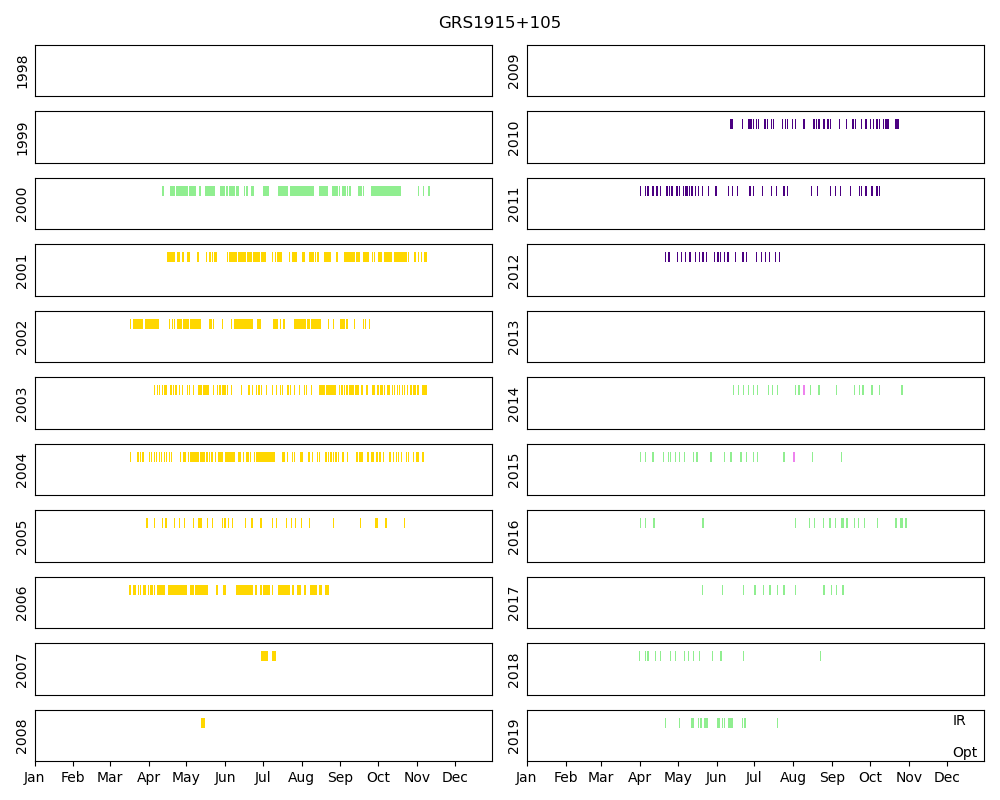
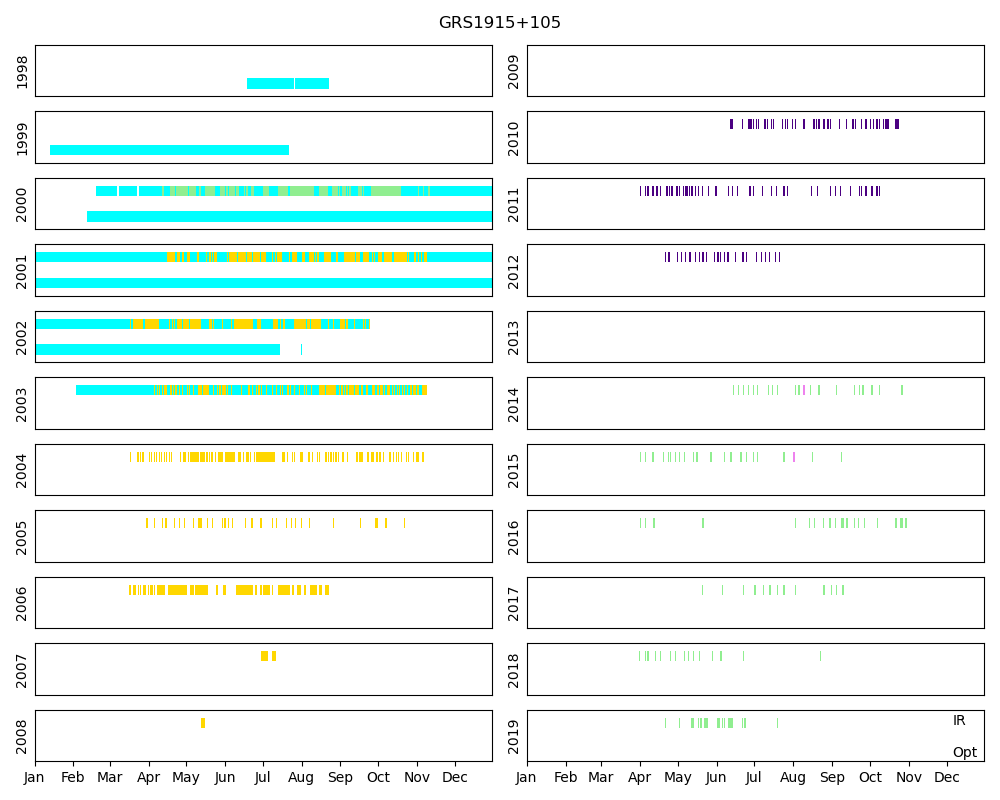
reran calendars

Changed region(s): [[0.031, 0.3125, 0.496, 0.5], [0.062, 0.1562, 0.496, 0.2812], [0.248, 0.0938, 0.341, 0.125]]

diff --git a/replot_1998etc.py b/replot_1998etc.py
@@ -1,0 +1,167 @@
+import pandas as pd
+import numpy as np
+import glob
+from lookup_name import *
+
+path='/scratch/REPLOGS'
+
+loglist=glob.glob(f'{path}/**/[0-9]*')
+    
+
+#fixed width location for most of 2012 at least
+colspecs = [
+    (0, 9),    # ProjectID
+    (9, 16),   # ImType
+    (16, 33),   # Object
+    (33, 44),   # RA
+    (44, 54),   # Dec
+    (54, 62),   # ExpTime
+    (62, 70),   # Filter
+    (70, 75),   # SecZ
+    (75, 84),   # LST
+    (84, 95),  # UTDate
+    (95, 105), # UTC
+    (105, 118), # JD
+    (118, 137), # Filename
+    (137, None) # [Logged@UT]
+]
+
+colnames = [
+    "ProjectID", "ImType", "Object", "RA", "Dec", "ExpTime", "Filter",
+    "SecZ", "LST", "UTDate", "UTC", "JD", "Filename", "Logged_UT"
+]
+
+#another version of the colspecs
+colspecs2 = [
+    (0, 9),    # ProjectID
+    (9, 16),   # ImType
+    (16, 42),   # Object
+    (42, 53),   # RA
+    (53, 63),   # Dec\
+    (63, 71),   # Equinox
+    (71, 79),   # ExpTime
+    (79, 88),   # Filter
+    (88, 93),   # SecZ
+    (93, 104),   # LST
+    (104, 115),  # UTDate
+    (115, 126), # UTC
+    (126, 136), # JD
+    (136, None) # Filename
+]
+
+colnames2 = [
+    "ProjectID", "ImType", "Object",  "RA", "Dec", "Equinox", "ExpTime", "Filter",
+    "SecZ", "LST", "UTDate", "UTC", "JD", "Filename"
+]
+
+colspecs3 = [
+    (0, 9),    # ProjectID
+    (9, 16),   # ImType
+    (16, 33),   # Object
+    (33, 44),   # RA
+    (44, 54),   # Dec
+    (54, 62),   # ExpTime
+    (62, 70),   # Filter
+    (70, 75),   # SecZ
+    (75, 84),   # LST
+    (84, 95),  # UTDate
+    (95, 106), # UTC
+    (106, 116), # JD
+    (116, None), # Filename
+]
+
+colnames3 = [
+        "ProjectID", "ImType", "Object", "RA", "Dec", "ExpTime", "Filter",
+        "SecZ", "LST", "UTDate", "UTC", "JD", "Filename"
+    ]
+
+no_obs_list=[]
+error_list=[]
+all_names=[]
+xrb_rows=[]
+for log in loglist:
+    print(log)
+    #figure out where to skip to
+    with open(log) as f:
+        lines = f.readlines()
+    
+    
+    header_line = None
+    footer_line = 0
+    templn=''
+    for i, line in enumerate(lines):
+        if line.strip().startswith("Project") or line.strip().startswith("Owner"):
+            header_line = i
+        if header_line and line.strip() == "" and footer_line==0:
+            footer_line = len(lines)-i
+ 
+
+    #if we didn't find that log, then there was no observing that night, so skip
+    if header_line is None:
+        no_obs_list.append(log)
+        print(f'NO LOG: {log}')
+        continue
+    print('first try')
+    df = pd.read_fwf(log, skiprows=header_line+1, colspecs=colspecs2,skipfooter=footer_line, names=colnames2)
+    needed_second=False
+    #use the second format if necessary
+    sety = [str(i) for i in set(df['Equinox'])]
+    if '2000.0' not in sety:
+        print('second try')
+        needed_second=True
+        print(df)
+        df=pd.read_fwf(log, skiprows=header_line+1, colspecs=colspecs, skipfooter=footer_line, names=colnames)
+    
+    if df['Filename'].isna().any():
+        print('third try')
+        df=pd.read_fwf(log, skiprows=header_line+1, colspecs=colspecs3, skipfooter=footer_line, names=colnames3)
+    
+    
+    df['replog']=log
+    
+    
+    #find all the objects
+    for id, row in df.iterrows():
+        try:
+            df.at[id, 'proper name']=get_proper_name(row['Object'])
+        except:
+            df.at[id, 'proper name']='FAIL'
+    #new names to add to my name lookup
+    try:
+        names=set(df.loc[df['proper name']=='FAIL']['Object'])
+        all_names.append(names)
+    except:
+        print('what the heck')
+        print(df)
+        error_list.append(log)
+    
+    for id, row in df.iterrows():
+        try:
+            if is_xrb_quick(row['proper name']):
+                xrb_rows.append(row)
+        except:
+            print('faulty nickname')
+    if needed_second:
+        print(df)
+
+unique_names = set().union(*all_names)
+#print(unique_names)
+newnames=list(unique_names)
+newnames.sort()
+print(newnames)
+#print(no_obs_list)
+print(error_list)
+
+'''
+### find the xrbs and what files exist for each of them. 
+#we're going to make a massive log to be used with the nice calendar thing
+    
+xrbdf=pd.DataFrame(xrb_rows)
+print(xrbdf.head())
+print(len(xrbdf))
+
+grp = xrbdf.groupby(['proper name'])
+
+for name, g in grp:
+    g.to_csv(f'/home/kmc249/usbdrive_logs/tapereplog_{name[0]}.csv', index=False)
+'''

diff --git a/full_cal_plots.py b/full_cal_plots.py
@@ -15,6 +15,10 @@ optical['source'] = 'optical'
 ir = pd.read_csv('/home/kmc249/test_data/all_ir_log.csv', low_memory=False)
 ir['source'] = 'IR'
 
+tapes=pd.read_csv('/home/kmc249/test_data/inventory_tapes_08_19_25.csv')
+tapes['Start Date'] = pd.to_datetime(tapes['Start Date'], errors='coerce')
+tapes['End Date'] = pd.to_datetime(tapes['End Date'], errors='coerce')
+
 # Apply your same cleaning to both datasets (put into a function for convenience)
 def clean_table(table):
     table = table.loc[table['xrb'] == True]
@@ -61,6 +65,9 @@ for name in xrb_list:
     except:
         skip=True
         
+    #temp tapes thing
+    gtape=tapes.loc[tapes['Obj ID']==name]
+    
     f, a = plt.subplots(11, 2, figsize=(10, 8), sharey=True)
     axes = np.ravel(a, order='F')
     
@@ -68,6 +75,33 @@ for name in xrb_list:
      
     for id, year in enumerate(years):
         yrtable = g.loc[g['DATE-OBS'].dt.year == year]
+        if len(gtape)>0:
+            yrtable3 = tapes.loc[tapes['Start Date'].dt.year == year]
+            for jd, row in yrtable3.iterrows():
+                start=row['Start Date']
+                end=row['End Date']
+                if end==start:
+                    end = start + pd.Timedelta(days=1)
+                c = 'cyan'
+                z = 1.4
+               
+                y_vals=[]
+                # choose vertical position depending on source
+                if 'Optical' in row['Optical/IR']:
+                    y_vals.append(0.25)
+                elif 'IR' in row['Optical/IR']:
+                    y_vals.append(0.75)
+                elif 'Both' in row['Optical/IR']:
+                    y_vals.append(0.75)
+                    y_vals.append(0.25)
+                
+                for y_pos in y_vals:
+                    axes[id].barh(y=y_pos, width=(end - start).days, left=start, height=0.2, color=c, zorder=z)
+    
+                    # handle span crossing year
+                    if end.year == year + 1:
+                        axes[id+1].barh(y=y_pos, width=(end - start).days, left=start, height=0.2, color=c, zorder=z)
+
         if not skip:
             yrtable2 = on_usb.loc[on_usb['DATE-OBS'].dt.year == year]
             for jd, row in yrtable2.iterrows():
